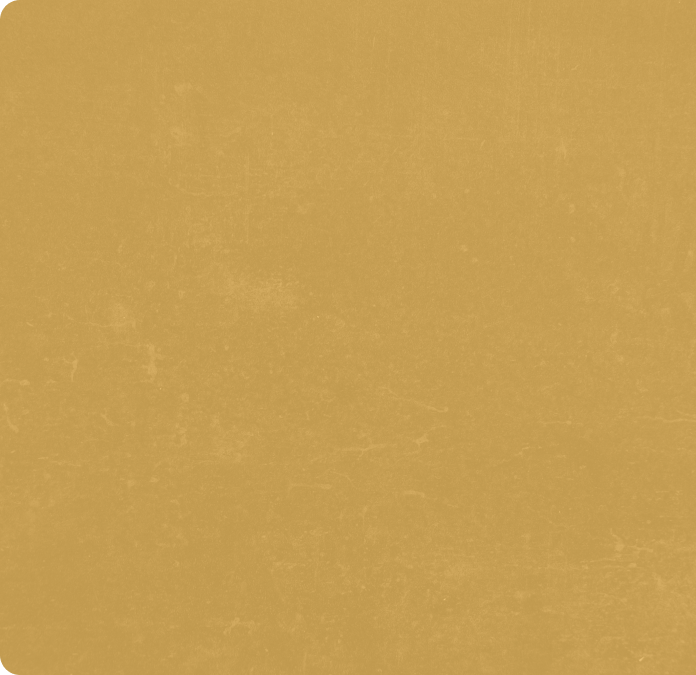
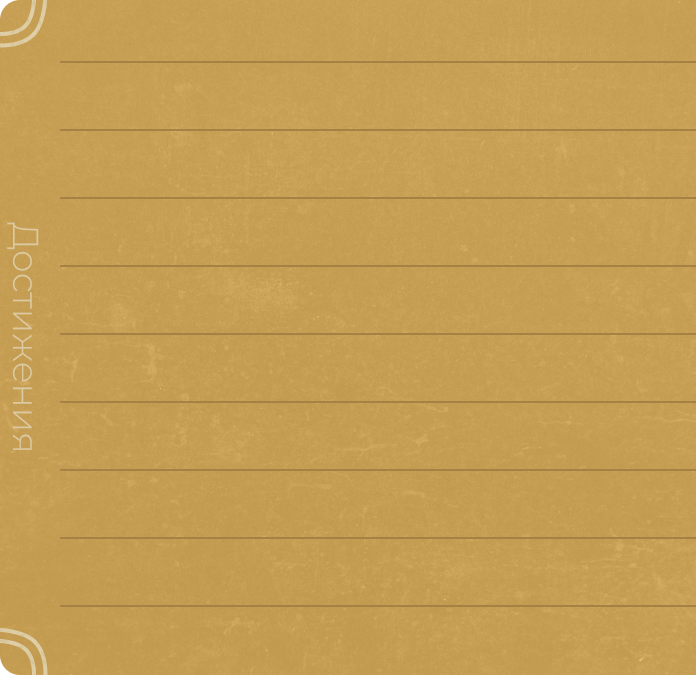
Полностью добавлены достижения

Changed region(s): [[0.0, 0.3111, 0.0603, 0.6533], [0.0, 0.9333, 0.0905, 1.0], [0.0, 0.0, 0.0905, 0.0933]]

diff --git a/main.py b/main.py
@@ -1,4 +1,3 @@
-import random
 from tkinter import *
 from tkinter import ttk
 from tkinter.ttk import Combobox
@@ -106,6 +105,7 @@ def show_frame(frame):
     book_frame.place_forget()
     addBook_Frame.place_forget()
     voice_frame.place_forget()
+    achivement_frame.place_forget()
     frame.place(x=328, y=47)
 
 
@@ -343,7 +343,9 @@ Button(menu_frame, image=recomendation_button_img, border=0,
        command=lambda: show_frame(recomendation_frame)).place(x=133, y=293)
 
 Button(menu_frame, image=achivement_button_img, border=0,
-       bg="#C4AF72", activebackground="#C4AF72").place(x=133, y=466)
+       bg="#C4AF72", activebackground="#C4AF72",
+       command=lambda: show_frame(achivement_frame)).place(x=133,y=466)
+
 
 Button(menu_frame, image=voice_button_img, border=0,
        bg="#C4AF72", activebackground="#C4AF72").place(x=128, y=644)
